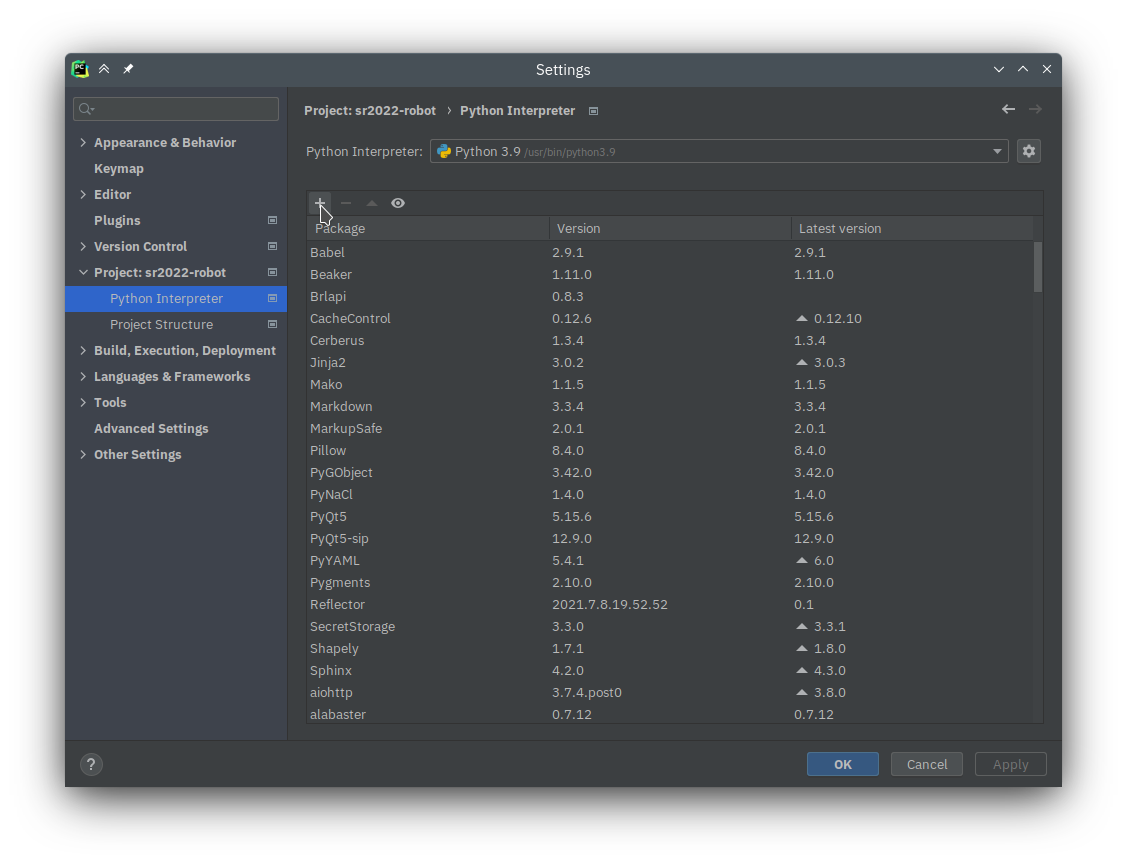
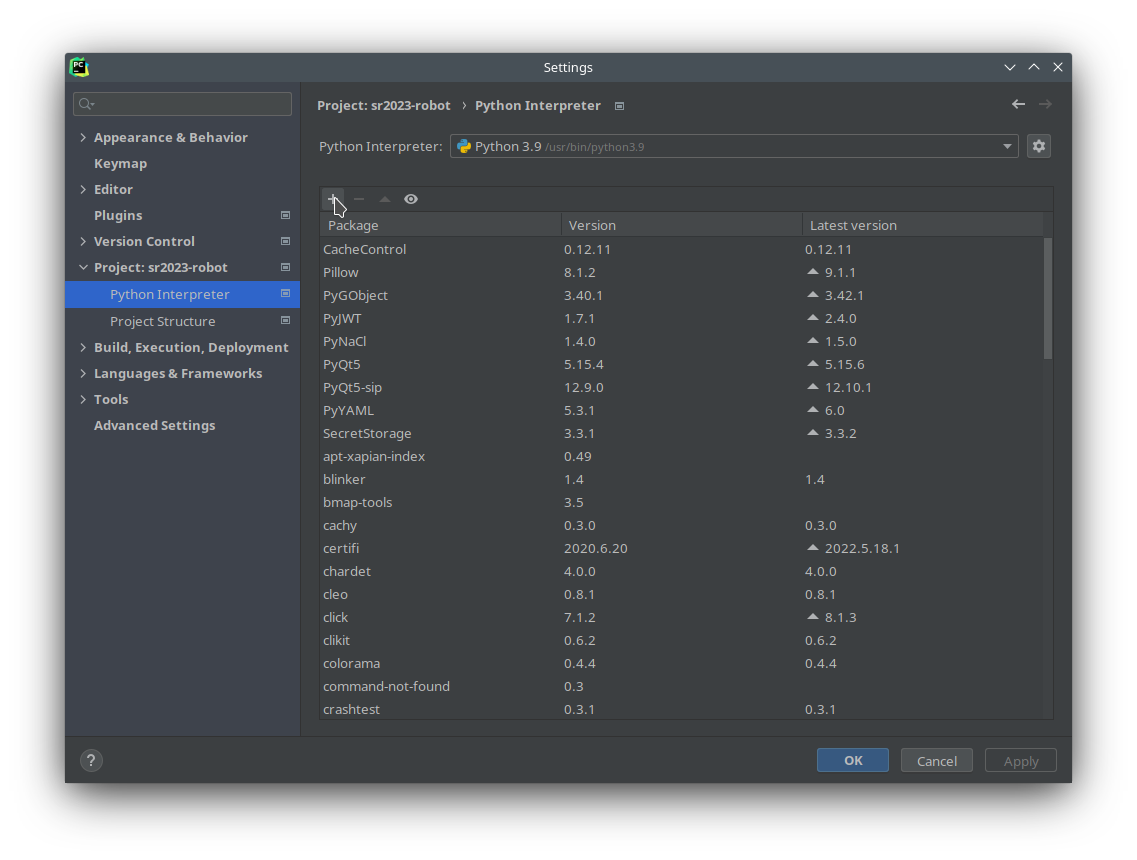
Update Step 3 to match current versions of PyCharm

diff --git a/programming/editors/pycharm.md b/programming/editors/pycharm.md
@@ -15,7 +15,7 @@ The following instructions will guide you through setting up your local environm
 1. Open your robot code project in PyCharm.
 2. Head to **File** &rarr; **Settings** or **PyCharm** &rarr; **Preferences** on a Mac.
 ![Location of Settings menu option in PyCharm for Windows and Linux]({{ site.baseurl }}/images/content/programming/pycharm_app_menu.png)
-3. Select `Project` &rarr; `Project Interpreter` from the list on the left.
+3. Select `Project` &rarr; `Python Interpreter` from the list on the left.
 4. Click the `+` symbol at the top of the packages list to install a new library.
 ![PyCharm Interpreter Settings dialog]({{ site.baseurl }}/images/content/programming/pycharm_interpreter_settings.png)
 5. Search for `sr.robot3` then click `Install Package`
